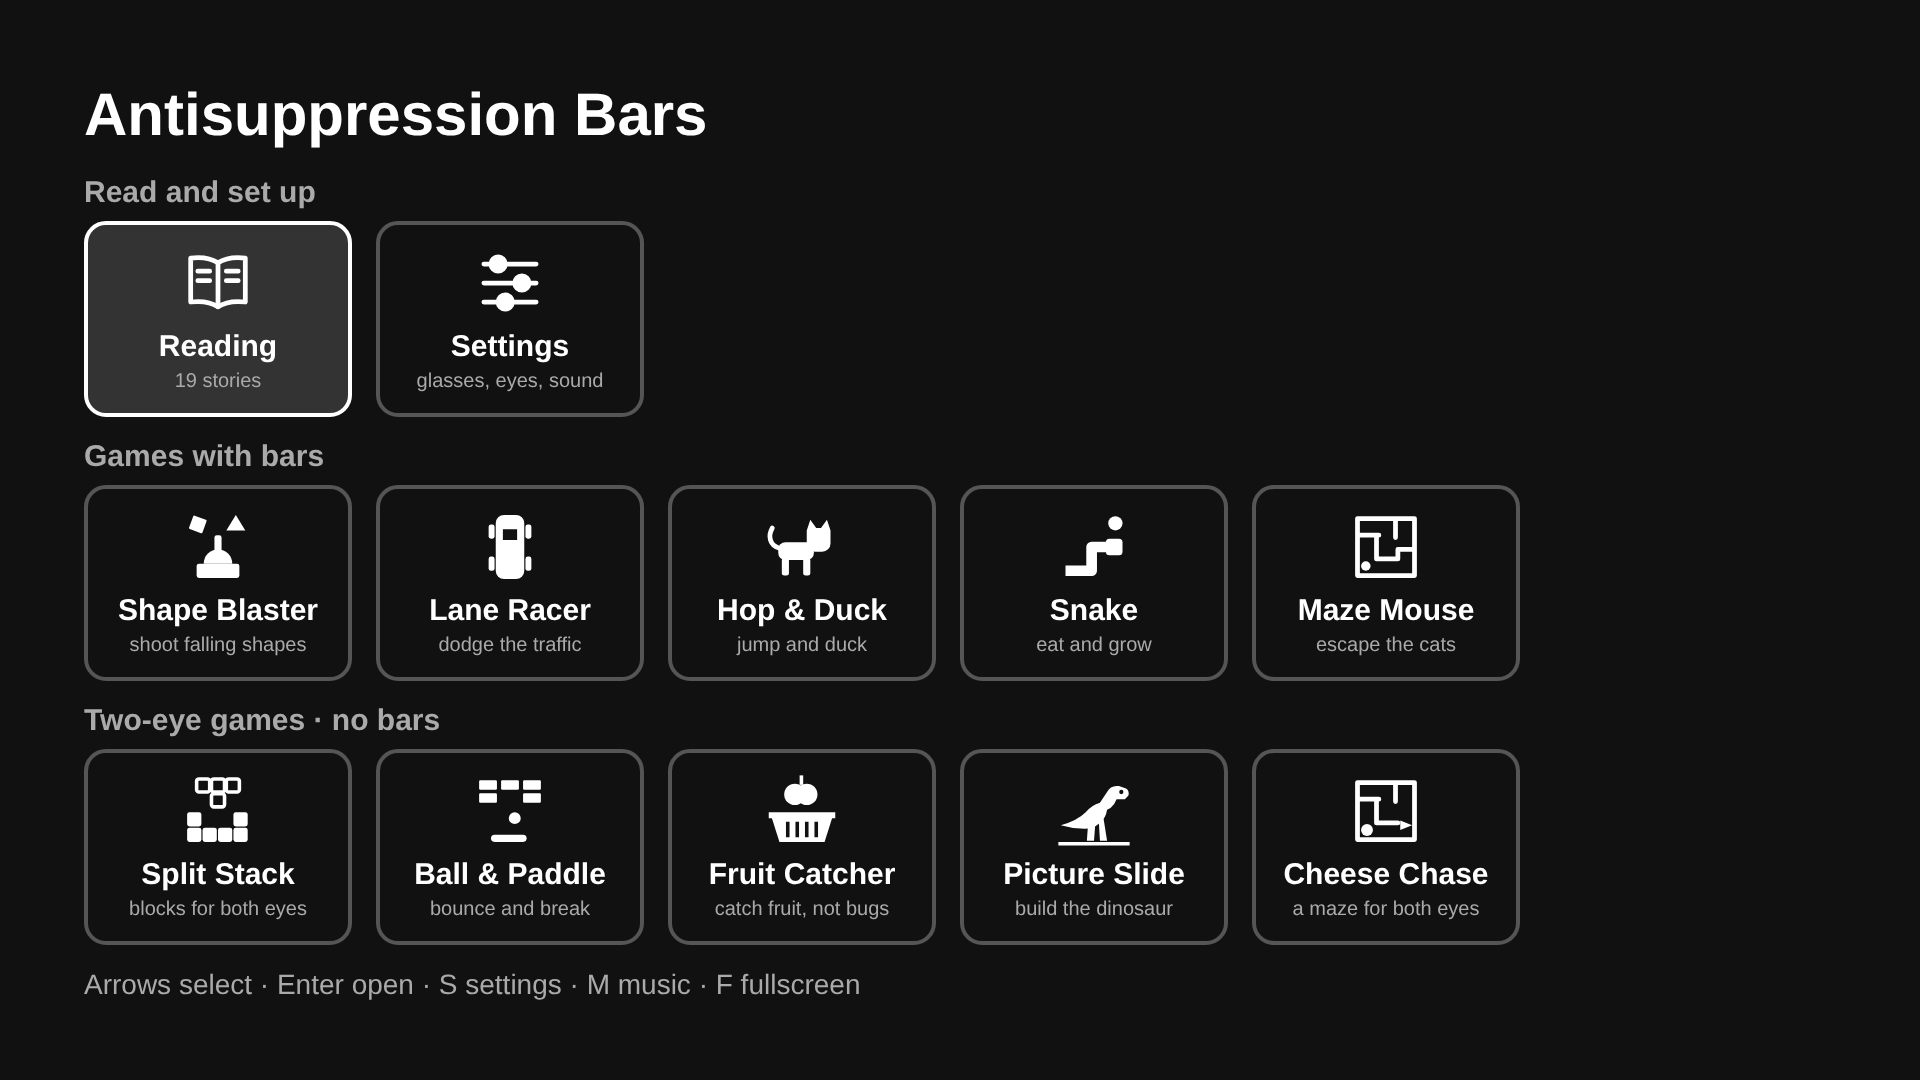
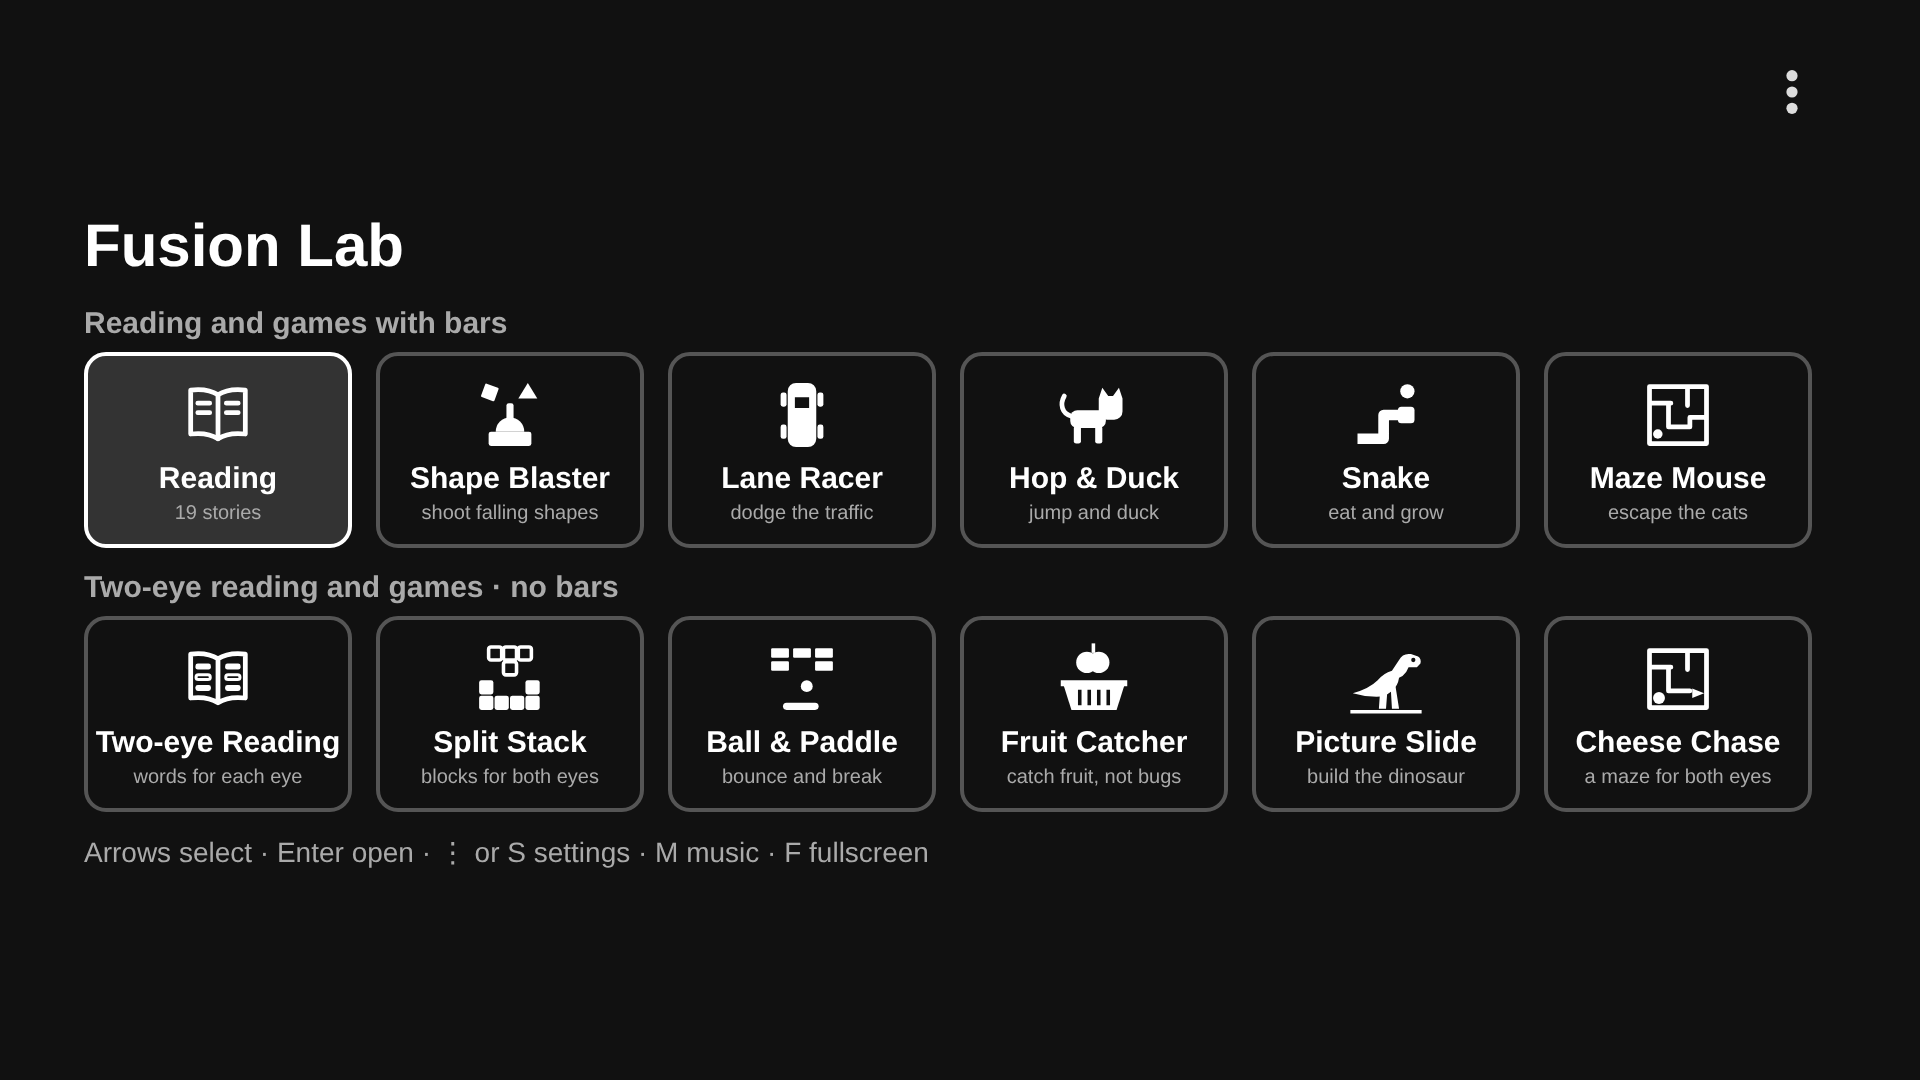
Rename to Fusion Lab; two-row menu with Two-eye Reading; settings behind a ⋮ button
Claude-Session: https://claude.ai/code/session_019DAwnqKTqvFo8n4B8RvvjZ

diff --git a/js/app.js b/js/app.js
@@ -32,21 +32,26 @@
 
   var isTouch = window.matchMedia && window.matchMedia('(pointer: coarse)').matches;
 
-  // Home menu in three groups: reading & settings, games with bars, two-eye games (no bars)
+  // Home menu in two rows: reading and games with bars; two-eye reading and games (no bars).
+  // Settings opens from the ⋮ button at the top right (menuFocus = SETTINGS_FOCUS).
   var BAR_GAMES = [Blaster, Racer, Runner, Snake, Maze];
   var EYE_GAMES = [SplitStack, Paddle, Fruit, Slide, CheeseChase];
   function gameItem(g) {
     return { label: g.title, icon: MENU_ART[g.id].icon, sub: MENU_ART[g.id].tag, action: function () { startGame(g); } };
   }
   var MENU = [
-    { label: 'Reading', icon: MENU_ART.reading.icon, sub: STORIES.length + ' stories', action: function () { openLibrary(); } },
-    { label: 'Settings', icon: MENU_ART.settings.icon, sub: MENU_ART.settings.tag, action: function () { openPanel(); } }
-  ].concat(BAR_GAMES.map(gameItem), EYE_GAMES.map(gameItem));
+    { label: 'Reading', icon: MENU_ART.reading.icon, sub: STORIES.length + ' stories', action: function () { openLibrary('bars'); } }
+  ].concat(BAR_GAMES.map(gameItem), [
+    { label: 'Two-eye Reading', icon: MENU_ART.reading2.icon, sub: MENU_ART.reading2.tag, action: function () { openLibrary('eyes'); } }
+  ], EYE_GAMES.map(gameItem));
   var MENU_ROWS = [
-    { title: 'Read and set up', items: [0, 1] },
-    { title: 'Games with bars', items: [2, 3, 4, 5, 6] },
-    { title: 'Two-eye games · no bars', items: [7, 8, 9, 10, 11] }
+    { title: 'Reading and games with bars', items: [0, 1, 2, 3, 4, 5] },
+    { title: 'Two-eye reading and games · no bars', items: [6, 7, 8, 9, 10, 11] }
   ];
+  var SETTINGS_FOCUS = -1, lastCol = 0;
+  var moreBtn = $('menu-more');
+  // Reading mode: 'bars' (white text under the bars) or 'eyes' (no bars; each word in one eye's colour)
+  var readingMode = 'bars';
   function menuRowOf(i) {
     for (var r = 0; r < MENU_ROWS.length; r++) {
       var c = MENU_ROWS[r].items.indexOf(i);
@@ -73,6 +78,7 @@
   /* ---------- rendering ---------- */
 
   function renderMenu() {
+    moreBtn.classList.toggle('focused', menuFocus === SETTINGS_FOCUS);
     menuList.innerHTML = MENU_ROWS.map(function (row) {
       return '<li class="menu-head">' + row.title + '</li>' + row.items.map(function (i) {
         var m = MENU[i];
@@ -82,15 +88,28 @@
     }).join('');
   }
 
+  /* Two-eye reading: words take turns between the weaker eye's colour and the stronger eye's
+     colour (the Red and Green / Blue colours from Settings), so both eyes are needed to read a line. */
+  var wordN = 0;
+  function eyeWords(text) {
+    if (readingMode !== 'eyes') return text;
+    var eyes = Settings.eyeColors(s);
+    return text.split(' ').map(function (w) {
+      return '<span style="color:' + (wordN++ % 2 ? eyes.strong : eyes.weak) + '">' + w + '</span>';
+    }).join(' ');
+  }
+
   function renderText() {
     textEl.style.fontSize = s.fontSize + 'px';
     var st = STORIES[storyIdx];
     var ar = st.lang === 'ar';
+    wordN = 0;
     textEl.setAttribute('dir', ar ? 'rtl' : 'ltr');
     textEl.setAttribute('lang', st.lang || 'en');
+    textEl.className = readingMode === 'eyes' ? 'two-eye' : '';
     textEl.innerHTML =
-      '<h2 class="story-title"><span class="story-icon">' + (STORY_ART[st.icon] || '') + '</span>' + st.title + '</h2>' +
-      st.paragraphs.map(function (p) { return '<p>' + p + '</p>'; }).join('') +
+      '<h2 class="story-title"><span class="story-icon">' + (STORY_ART[st.icon] || '') + '</span>' + eyeWords(st.title) + '</h2>' +
+      st.paragraphs.map(function (p) { return '<p>' + eyeWords(p) + '</p>'; }).join('') +
       '<p class="story-end" dir="ltr">◀ ▶ story ' + (storyIdx + 1) + ' of ' + STORIES.length +
       '  ·  ' + LANG_NAMES[st.lang || 'en'] + '</p>';
   }
@@ -163,14 +182,15 @@
   function updateBars() {
     var plain = screen === 'menu' || screen === 'library';
     // Two-eye games draw their own colours for each eye, so the bars are not used there
-    var twoEye = screen === 'game' && currentGame && currentGame.dichoptic;
+    var twoEye = (screen === 'game' && currentGame && currentGame.dichoptic) || (screen === 'reader' && readingMode === 'eyes');
     barsEl.classList.toggle('hidden', (plain && !panelOpen()) || screen === 'calib' || twoEye);
   }
 
   // Story list (no bars); picking a story opens it in the reader
-  function openLibrary() {
+  function openLibrary(mode) {
+    if (mode) readingMode = mode;
     show('library');
-    Library.open(libraryEl, storyIdx, function (i) {
+    Library.open(libraryEl, storyIdx, readingMode === 'eyes' ? 'Two-eye reading · choose a story' : 'Choose a story', function (i) {
       storyIdx = i;
       renderText();
       scrollY = 0;
@@ -232,16 +252,26 @@
     if (screen === 'library') { Library.key(k); return; }
 
     if (screen === 'menu') {
-      // Three rows of tiles: LEFT/RIGHT move within a row, UP/DOWN move between rows
-      var pos = menuRowOf(menuFocus), row = MENU_ROWS[pos.r].items;
-      if (k === KEY.LEFT) menuFocus = row[(pos.c - 1 + row.length) % row.length];
-      if (k === KEY.RIGHT) menuFocus = row[(pos.c + 1) % row.length];
-      if (k === KEY.UP || k === KEY.DOWN) {
-        var next = MENU_ROWS[(pos.r + (k === KEY.DOWN ? 1 : -1) + MENU_ROWS.length) % MENU_ROWS.length].items;
-        menuFocus = next[Math.min(pos.c, next.length - 1)];
+      // Rows of tiles: LEFT/RIGHT move within a row, UP/DOWN move between rows;
+      // UP from the first row reaches the ⋮ settings button at the top right
+      if (menuFocus === SETTINGS_FOCUS) {
+        if (k === KEY.DOWN) menuFocus = MENU_ROWS[0].items[Math.min(lastCol, MENU_ROWS[0].items.length - 1)];
+      } else {
+        var pos = menuRowOf(menuFocus), row = MENU_ROWS[pos.r].items;
+        if (k === KEY.LEFT) menuFocus = row[(pos.c - 1 + row.length) % row.length];
+        if (k === KEY.RIGHT) menuFocus = row[(pos.c + 1) % row.length];
+        if (k === KEY.UP && pos.r === 0) { lastCol = pos.c; menuFocus = SETTINGS_FOCUS; }
+        else if (k === KEY.UP || k === KEY.DOWN) {
+          var next = MENU_ROWS[Math.min(MENU_ROWS.length - 1, Math.max(0, pos.r + (k === KEY.DOWN ? 1 : -1)))].items;
+          menuFocus = next[Math.min(pos.c, next.length - 1)];
+        }
       }
       if (k >= KEY.LEFT && k <= KEY.DOWN) Sound.play('nav');
-      if (k === KEY.ENTER) { Sound.play('select'); MENU[menuFocus].action(); return; }
+      if (k === KEY.ENTER) {
+        Sound.play('select');
+        if (menuFocus === SETTINGS_FOCUS) openPanel(); else MENU[menuFocus].action();
+        return;
+      }
       renderMenu();
       return;
     }
@@ -253,8 +283,8 @@
       if (k === KEY.UP) scroll(-120);
       if (k === KEY.LEFT) changeStory(-1);
       if (k === KEY.RIGHT) changeStory(1);
-      if (k === KEY.RED) { Settings.cycle(s, 'orientation', 1); apply(); }
-      if (k === KEY.GREEN) { Settings.cycle(s, 'barSize', 1); apply(); }
+      if (k === KEY.RED && readingMode === 'bars') { Settings.cycle(s, 'orientation', 1); apply(); }
+      if (k === KEY.GREEN && readingMode === 'bars') { Settings.cycle(s, 'barSize', 1); apply(); }
       return;
     }
 
@@ -352,6 +382,10 @@
   // Pause games when the tab is hidden
   document.addEventListener('visibilitychange', function () { if (document.hidden) Engine.pause(true); });
   window.addEventListener('resize', fit);
+
+  // The ⋮ button never keeps keyboard focus, so OK / Enter is always handled by the key handler
+  moreBtn.addEventListener('mousedown', function (e) { e.preventDefault(); });
+  moreBtn.addEventListener('click', function () { moreBtn.blur(); Sound.play('select'); openPanel(); });
 
   apply();
   show('menu');

diff --git a/play.html b/play.html
@@ -5,7 +5,7 @@
   <meta name="viewport" content="width=device-width, initial-scale=1, viewport-fit=cover, user-scalable=no">
   <meta name="theme-color" content="#111111">
   <meta name="description" content="Red-green reading bars and games for at-home binocular vision exercises with bichrome (red-green) glasses.">
-  <title>Antisuppression Bars</title>
+  <title>Fusion Lab</title>
   <link rel="icon" type="image/png" href="assets/icon-130.png">
   <link rel="apple-touch-icon" href="assets/icon-512.png">
   <link rel="stylesheet" href="css/app.css">
@@ -16,9 +16,10 @@
   <div id="stage">
     <!-- Home menu -->
     <section id="menu" class="screen">
-      <h1 class="title">Antisuppression Bars</h1>
+      <h1 class="title">Fusion Lab</h1>
+      <button id="menu-more" type="button" tabindex="-1" aria-label="Settings" title="Settings"><svg viewBox="0 0 24 24" aria-hidden="true" fill="currentColor"><circle cx="12" cy="5" r="2.4"/><circle cx="12" cy="12" r="2.4"/><circle cx="12" cy="19" r="2.4"/></svg></button>
       <ul id="menu-list"></ul>
-      <p class="hint">Arrows select · Enter open · S settings · M music · F fullscreen</p>
+      <p class="hint">Arrows select · Enter open · ⋮ or S settings · M music · F fullscreen</p>
     </section>
 
     <!-- Reading content shown under the bars -->

diff --git a/js/menu-art.js b/js/menu-art.js
@@ -13,6 +13,15 @@ var MENU_ART = (function () {
         '<path d="M32 15v37M15 22h10M15 30h10M39 22h10M39 30h10"/>',
         'fill="none" stroke="currentColor" stroke-width="4" stroke-linecap="round" stroke-linejoin="round"')
     },
+    reading2: {
+      tag: 'words for each eye',
+      icon: svg('<g fill="none" stroke="currentColor" stroke-width="4" stroke-linecap="round" stroke-linejoin="round">' +
+        '<path d="M32 15c-6-4-14-5-23-4v37c9-1 17 0 23 4 6-4 14-5 23-4V11c-9-1-17 0-23 4zM32 15v37"/></g>' +
+        '<rect x="13" y="19" width="13" height="5" rx="2"/><rect x="38" y="19" width="13" height="5" rx="2"/>' +
+        '<g fill="none" stroke="currentColor" stroke-width="2.5"><rect x="13.5" y="28.5" width="12" height="4" rx="2"/>' +
+        '<rect x="38.5" y="28.5" width="12" height="4" rx="2"/></g>' +
+        '<rect x="13" y="37" width="13" height="5" rx="2"/><rect x="38" y="37" width="13" height="5" rx="2"/>')
+    },
     blaster: {
       tag: 'shoot falling shapes',
       icon: svg('<rect x="14" y="46" width="36" height="12" rx="2"/><path d="M20 46a12 12 0 0 1 24 0z"/>' +

diff --git a/js/library.js b/js/library.js
@@ -6,10 +6,10 @@ var Library = (function () {
   var KEY = { LEFT: 37, UP: 38, RIGHT: 39, DOWN: 40, ENTER: 13, BACK: 461 };
   var COLS = 5;
   var LANG = { en: 'English', fr: 'Français', ar: 'العربية' };
-  var root, focus = 0, onPick, onBack, bound = false;
+  var root, focus = 0, onPick, onBack, bound = false, heading = 'Choose a story';
 
   function render() {
-    var html = '<h1>Choose a story</h1><ul class="lib-grid">';
+    var html = '<h1>' + heading + '</h1><ul class="lib-grid">';
     STORIES.forEach(function (st, i) {
       var lang = st.lang || 'en';
       html += '<li data-i="' + i + '" class="' + (i === focus ? 'focused' : '') + '">' +
@@ -32,7 +32,8 @@ var Library = (function () {
     if (k === KEY.BACK) onBack();
   }
 
-  function open(container, startIdx, pick, back) {
+  function open(container, startIdx, title, pick, back) {
+    heading = title || 'Choose a story';
     root = container; focus = startIdx || 0; onPick = pick; onBack = back;
     if (!bound) {                       // mouse, touch and Magic Remote pointer
       bound = true;

diff --git a/css/app.css b/css/app.css
@@ -113,6 +113,17 @@ h1 { font-size: 48px; margin-bottom: 32px; }
 #menu-list li.focused { border-color: #fff; background: #333; }
 #menu .hint { font-size: 28px; margin-top: 24px; width: 1752px; text-align: left; }
 
+/* Settings: only a ⋮ button at the top right of the home menu */
+#menu-more {
+  position: absolute; top: 48px; right: 84px; width: 88px; height: 88px;
+  border: 4px solid transparent; border-radius: 50%; background: none; color: #ddd;
+  display: flex; align-items: center; justify-content: center; padding: 0; cursor: pointer;
+}
+#menu-more svg { width: 56px; height: 56px; display: block; }
+#menu-more.focused { border-color: #fff; background: #333; color: #fff; }
+/* Two-eye reading: no bars; words are coloured per eye in app.js */
+#text.two-eye .story-end { color: #888; }
+
 /* Game canvas */
 #game { position: absolute; inset: 0; }
 #game-hint {

diff --git a/css/web.css b/css/web.css
@@ -24,6 +24,7 @@ html, body {
 /* Mouse affordances */
 #menu-list li, #settings li { cursor: pointer; }
 #menu-list li:hover { border-color: #bbb; }
+#menu-more:hover { border-color: #bbb; }
 #settings .value { cursor: pointer; }
 #disclaimer { cursor: pointer; }
 

diff --git a/index.md b/index.md
@@ -1,9 +1,9 @@
 ---
 layout: default
-title: Antisuppression Bars
+title: Fusion Lab
 ---
 
-Antisuppression Bars puts red-green (or red-blue) bars over reading text and simple games, for
+Fusion Lab puts red-green (or red-blue) bars over reading text and simple games, for
 binocular vision exercises at home with bichrome glasses. Each eye sees only part of the picture
 through its filter, so both eyes have to work together to read the story or follow the game.
 
@@ -15,7 +15,7 @@ ophthalmologist. It is not a medical device and does not diagnose or treat any c
 <a href="{{ site.play_url | relative_url }}"><strong>▶ Play in your browser</strong></a>. Works on
 computers, tablets and phones, with no sign-up or download.
 
-![The home menu: Reading and Settings, games with bars, and two-eye games]({{ '/screenshots/menu.png' | relative_url }})
+![The home menu: reading and games with bars, and two-eye reading and games]({{ '/screenshots/menu.png' | relative_url }})
 
 ## What's inside
 
@@ -43,6 +43,10 @@ computers, tablets and phones, with no sign-up or download.
   <figure>
     <img src="{{ '/screenshots/maze-mouse.png' | relative_url }}" alt="Maze Mouse: a mouse in a maze with crumbs and a cat">
     <figcaption><strong>Maze Mouse</strong>: eat crumbs, escape the cats</figcaption>
+  </figure>
+  <figure>
+    <img src="{{ '/screenshots/reading-two-eye.png' | relative_url }}" alt="Two-eye Reading: a story with words in alternating red and green">
+    <figcaption><strong>Two-eye Reading</strong>: every other word for each eye, no bars</figcaption>
   </figure>
   <figure>
     <img src="{{ '/screenshots/split-stack.png' | relative_url }}" alt="Split Stack: the falling block in red, the stack in green">
@@ -78,14 +82,14 @@ computers, tablets and phones, with no sign-up or download.
 
 1. Turn off night mode, blue-light or eye-comfort filters on your screen. They change the colours.
 2. Put on your red-green or red-blue glasses.
-3. Open **Settings** and set **Glasses** to match them.
+3. Open **Settings** (the **⋮** button at the top right) and set **Glasses** to match them.
 4. Open **Settings → Colour test**. Close one eye and adjust each colour until the cat disappears
    for the other eye. Screens show colour differently, so the best colour depends on your display.
 5. Follow the session length and schedule your eye-care provider recommends.
 
-## Two-eye games
+## Two-eye reading and games
 
-In **Split Stack**, **Ball & Paddle**, **Fruit Catcher**, **Picture Slide** and **Cheese Chase** the bars are switched off. Instead,
+In **Two-eye Reading**, **Split Stack**, **Ball & Paddle**, **Fruit Catcher**, **Picture Slide** and **Cheese Chase** the bars are switched off. Instead,
 some parts of the game are drawn only in the weaker eye's colour and others only in the stronger
 eye's colour (the Red and Green / Blue colours you set in Settings), so you can only play by using both eyes together. Set **Weaker eye** in
 Settings first. **Strong-eye contrast** dims the stronger eye's parts; ask your eye-care provider

diff --git a/README.md b/README.md
@@ -1,4 +1,4 @@
-# Antisuppression Bars — web version
+# Fusion Lab — web version
 
 Red-green reading bars and games for at-home binocular vision exercises, played in any
 web browser with red-green (bichrome) or red-blue glasses. This is the browser edition of the
@@ -33,6 +33,10 @@ LG webOS TV app; it shares the same game and bar code.
 - **Colour test** — a cat seen through each bar colour, with R / G / B pickers: adjust until
   the cat disappears for the opposite lens. Defaults are red #9B1819 and green #1A9B1C at
   100% strength
+- **Two-eye Reading** — the same stories with no bars: the words take turns between the weaker eye's
+  colour and the stronger eye's colour, so each eye sees every other word
+
+The home menu has two rows (with bars · two-eye, no bars). Settings opens from the **⋮** button at the top right, or with S.
 
 Everything runs offline in the browser. Settings and best scores are saved in the browser's
 local storage; nothing is sent anywhere.
@@ -57,7 +61,7 @@ with a **Play now** button.
 | F | fullscreen | fullscreen | fullscreen | fullscreen |
 
 ### Mouse and touch
-- Click or tap menu items; click the left or right half of a setting's value to change it.
+- Click or tap menu items, or ⋮ (top right) for Settings; click the left or right half of a setting's value to change it.
 - Reading: mouse wheel or drag to scroll, swipe sideways to change story.
 - On phones and tablets, an on-screen pad (arrows, OK, Pause, Bars, Menu) appears in the games and reader.
 

diff --git a/privacy.md b/privacy.md
@@ -1,11 +1,11 @@
 ---
 layout: default
 title: Privacy Policy
-description: Antisuppression Bars for web browsers and LG webOS TV · Effective 11 October 2026
+description: Fusion Lab for web browsers and LG webOS TV · Effective 11 October 2026
 permalink: /privacy
 ---
 
-**In short:** Antisuppression Bars does not collect, send or share any personal data. Everything
+**In short:** Fusion Lab does not collect, send or share any personal data. Everything
 it remembers stays on your device.
 
 ## What the app stores
@@ -40,7 +40,7 @@ collects no personal data, it collects none from children.
 
 ## Medical notice
 
-Antisuppression Bars is a supplement to vision therapy prescribed by an optometrist or
+Fusion Lab is a supplement to vision therapy prescribed by an optometrist or
 ophthalmologist. It is not a medical device and does not diagnose or treat any condition.
 
 ## Third-party services
@@ -48,7 +48,7 @@ ophthalmologist. It is not a medical device and does not diagnose or treat any c
 The web version is hosted on GitHub Pages, which may keep standard server logs such as IP
 addresses under [GitHub's privacy statement](https://docs.github.com/en/site-policy/privacy-policies/github-general-privacy-statement).
 On LG TVs, downloading and running apps is handled by LG's platform and LG Content Store, which
-have their own privacy policies. This policy covers only the Antisuppression Bars app.
+have their own privacy policies. This policy covers only the Fusion Lab app.
 
 ## Changes and contact
 
